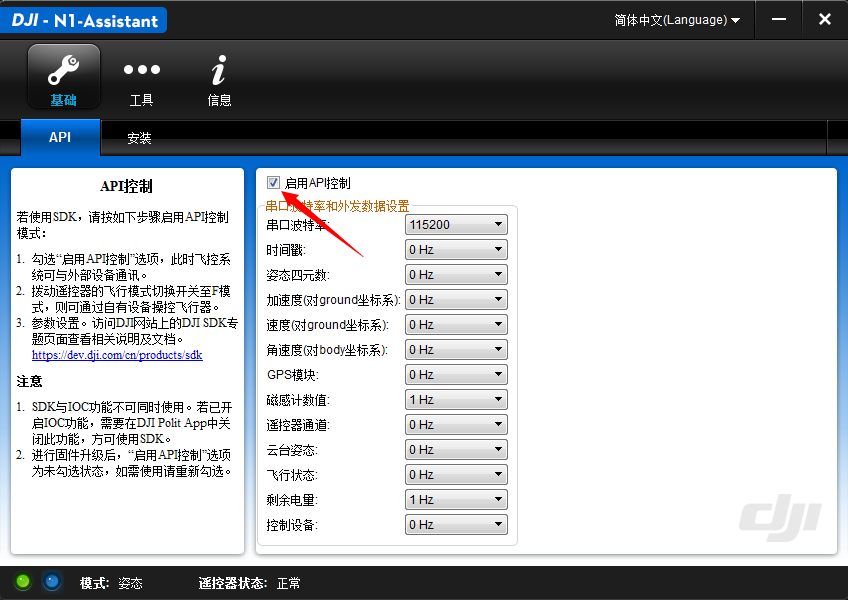
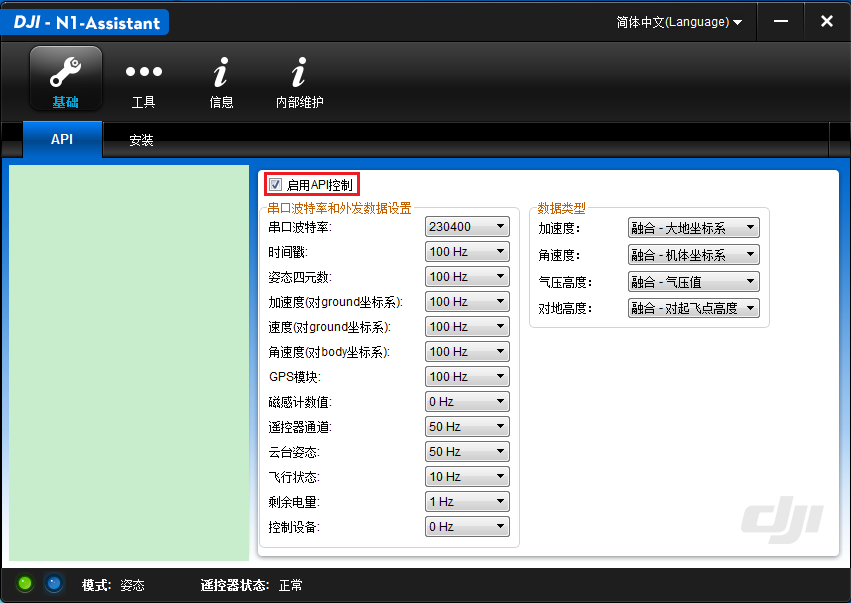
'update'

Changed region(s): [[0.0, 0.0, 1.0, 1.0], [0.7358, 0.36, 0.9198, 0.54], [0.3986, 0.39, 0.4292, 0.42]]

diff --git a/Onboard_API_Doc/en/ActivationGuide.md b/Onboard_API_Doc/en/ActivationGuide.md
@@ -9,32 +9,21 @@ Please go to https://developer.dji.com/register/ and apply for an Onboard SDK le
 ## 2.	Enable API Control
 Connect your UAV to your PC via a USB-to-MicroUSB cable. Launch the DJI N1 Assistant and check the box next to "Enable API control”.
 
-![Enable API Control](Images/N1UI.jpg)
+![Enable API Control](Images/N1UI.png)
 
 ## 3.	Configure the Baud Rate
-In case of the QT Sample, the baud rate is set to be 115200. Close the N1 Assistant after finish.
+In case of the QT Sample, the baud rate is set to be 230400. Close the N1 Assistant after finish.
 
-![Configure the Baud](Images/baudrate.jpg)
+![Configure the Baud](Images/baudrate.png)
 
-## 4.	Start the PC Simulator
-Assume that you are using your PC as the Onboard Device, restart your UAV while keeping it connected to the PC. Launch the DJI PC Simulator, click “Display Simulator” and then click “Start Simulation”. We recommend enabling “Auto Executing UI” so that the simulator will be displayed automatically next time when run.
-
-![Configure the Baud](Images/simulatorUI1.jpg)
-
-You will see a model of your UAV(if recognized) on the simulator screen shown below.   
-
-![Configure the Baud](Images/simulatorUI2.jpg)
-
->Note: You may need to restart the simulation if your UAV is disconnected from your PC.
-
-## 5.	Connect Your Mobile Device
+## 4.	Connect Your Mobile Device
 Ensure your Android or iOS mobile device has the internet connection ready, and connect it to the remote controller. Afterthat, launch the DJI GO app.
 
-## 6.	Connect Your Onboard Devices
+## 5.	Connect Your Onboard Devices
 Connect your Onboard Devices to the N1 Autopilot’s UART port.
 ![Connecter](Images/Connecter.jpg)
 
-## 7.	Activation
+## 6.	Activation
 The following are using the “DJI_Onboard_SDK_Windows_QT_Sample” as an demonstration:
 * Connect the N1 Autopilot to your PC using a UART-to-USB cable.
 * Launch the Windows QT Sample on your PC , configure the Baud rate on your PC so that it matches the rates of the UAV (For detail, please refer to step 3).

diff --git a/Onboard_API_Doc/cn/激活指南.md b/Onboard_API_Doc/cn/激活指南.md
@@ -10,23 +10,14 @@
 ![Enable API Control](Images/N1UI.png)
 ## 3. 配置波特率
 配置飞控当前UART API的通信速率
-如下图所示，配置飞机UART API口的通信波特率为115200。
+如下图所示，配置飞机UART API口的通信波特率为230400。
 ![Configure the Baud](Images/baudrate.png)
-## 4. 进入模拟器模式
-关闭N1调参软件，重启飞机，保持飞机USB和PC连接，运行模拟器。点击“Display simulator”按钮，然后点击“Start Simulation”进入模拟器。我们建议勾选“Auto Executing UI”，这样下次模拟器启动时能够自动显示模型。
-![simulatorUI1](Images/simulatorUI1.png)
-
-M100在模拟器中如下图所示。
-![simulatorUI2](Images/simulatorUI2.png)
-
->备注：每次飞机重启，或飞机USB和PC断开后，需重新进入模拟器模式。
-
-## 5. 连接移动设备和遥控器
+## 4. 连接移动设备和遥控器
 使用运行android或ios系统的移动设备（手机或平板）连接遥控器，确保移动设备能连接互联网。打开移动设备上的DJI GO APP。
-## 6. 连接飞机和Onboard设备
+## 5. 连接飞机和Onboard设备
 使用串口线连接飞机和Onboard设备。
 ![Connecter](Images/Connecter.jpg)
-## 7. 激活
+## 6. 激活
 以下我们将使用DJI_Onboard_API_Windows_QT_Sample为例演示如何进行激活。
 * 使用USB转串口线连接飞机UART口和PC；
 * 配置PC端的串口通信速率和飞机端保持一致（参考步骤3中飞机端配置的速率）
